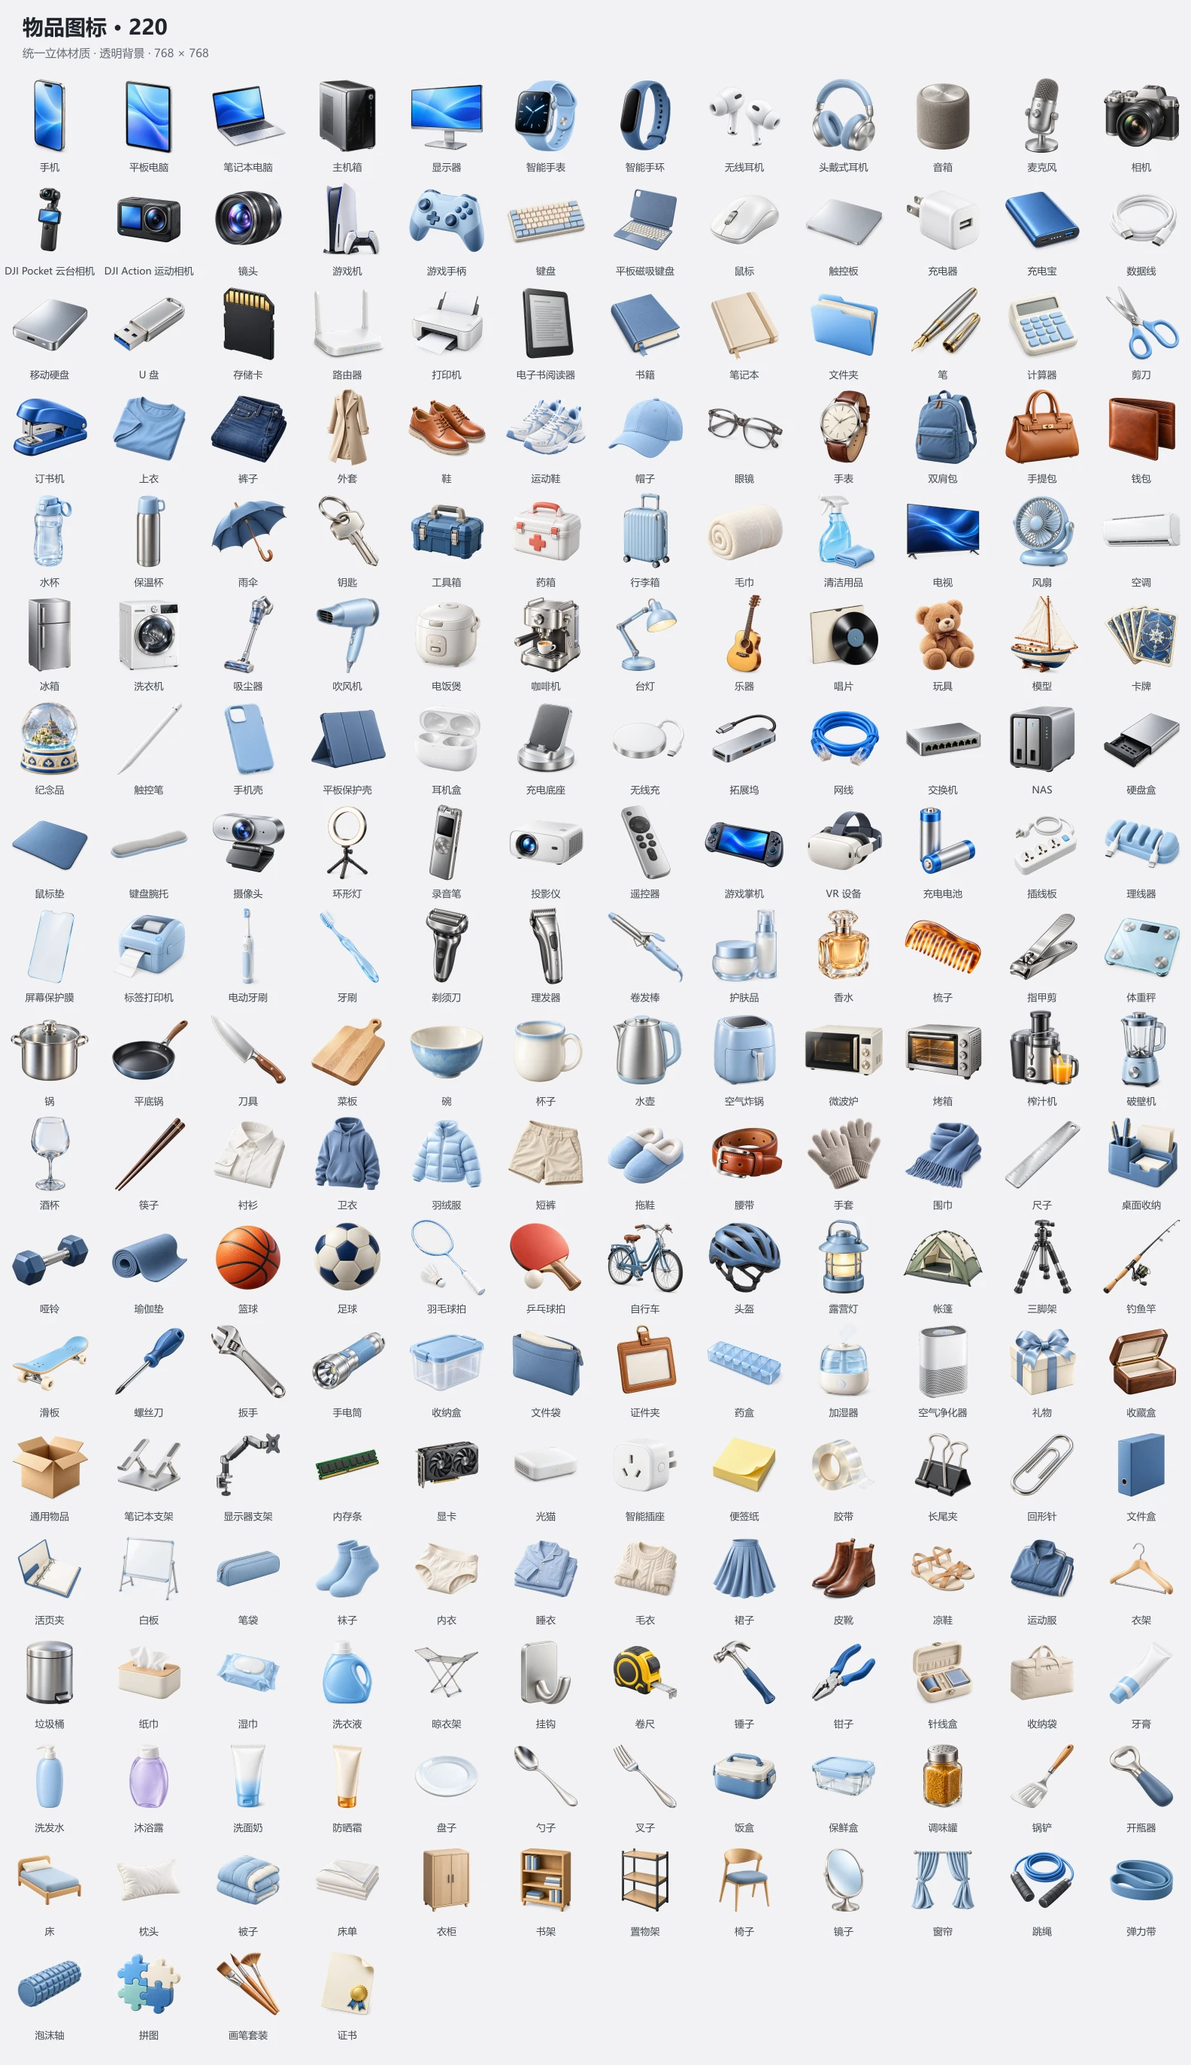
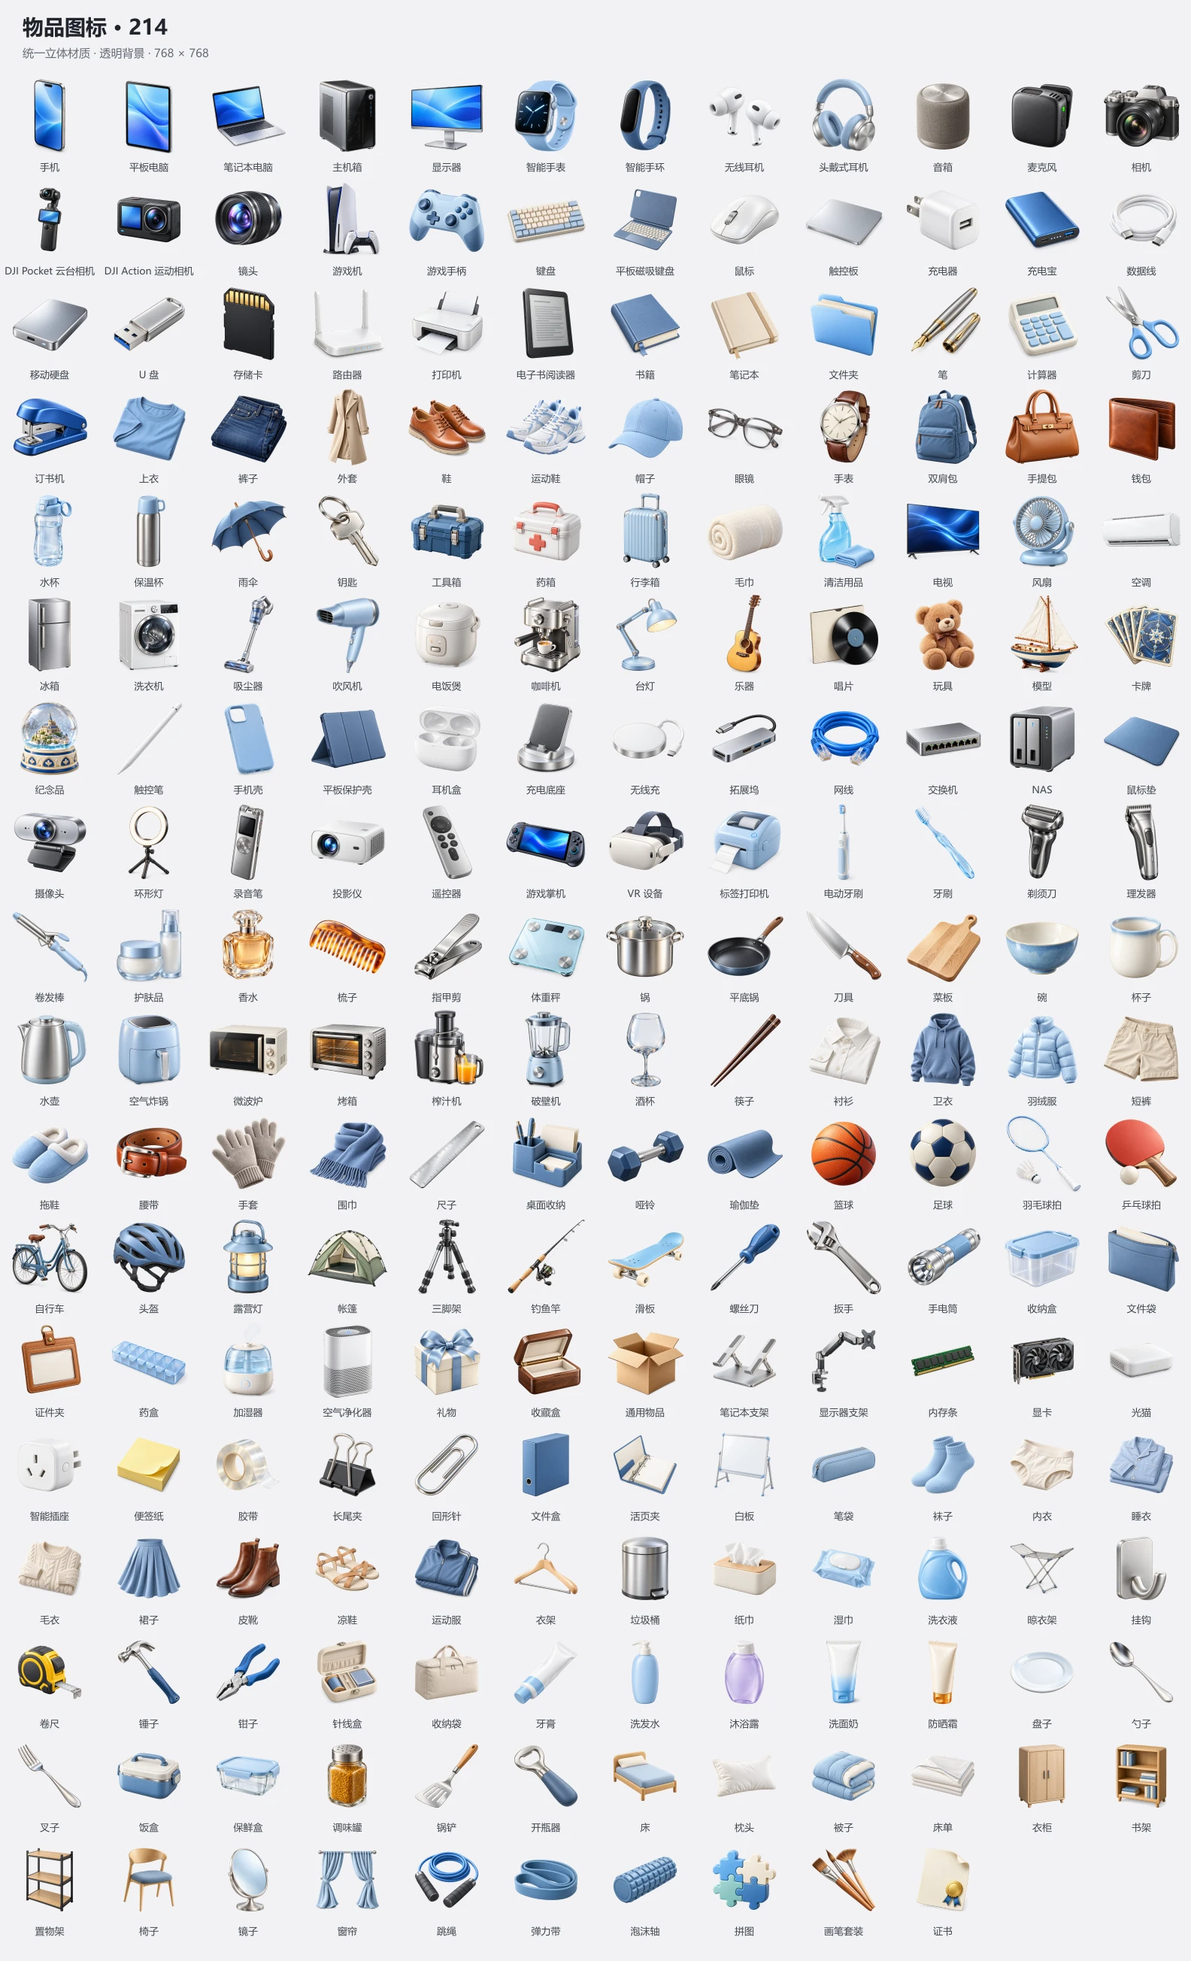
feat: redraw microphone as Mic Mini and retire unused accessories

diff --git a/src/data/icons.test.ts b/src/data/icons.test.ts
@@ -25,8 +25,8 @@ const webpBasenames = new Set(
 )
 
 describe('PRESET_ICONS 元数据', () => {
-  it('图标库包含 220 个独立物品', () => {
-    expect(PRESET_ICONS.length).toBe(220)
+  it('图标库包含 214 个独立物品', () => {
+    expect(PRESET_ICONS.length).toBe(214)
   })
 
   it('key 唯一，且 path 与 key 一一对应', () => {
@@ -140,7 +140,6 @@ describe('图标检索', () => {
     expect(searchIcons('空气炸锅').map((i) => i.key)).toContain('airfryer')
     expect(searchIcons('哑铃').map((i) => i.key)).toContain('dumbbell')
     expect(searchIcons('帐篷').map((i) => i.key)).toContain('tent')
-    expect(searchIcons('插线板').map((i) => i.key)).toContain('powerstrip')
     expect(searchIcons('螺丝刀').map((i) => i.key)).toContain('screwdriver')
   })
 
@@ -164,12 +163,12 @@ describe('图标检索', () => {
     for (const query of ['拓展坞', '扩展坞', 'USB 集线器', 'HDMI 转接器', 'HDMI', '读卡器', 'Docking Station', 'USB-C Hub']) {
       expect(searchIcons(query)[0]?.key, query).toBe('dockingstation')
     }
-    for (const key of ['usb', 'dock', 'hdddock']) {
+    for (const key of ['usb', 'dock']) {
       expect(presetIconOfAssetId(`preset-${key}`)).toBeDefined()
     }
   })
 
-  it('Pocket 云台相机与 Action 运动相机可分别检索，大疆可找到两者', () => {
+  it('Pocket 云台相机与 Action 运动相机可分别检索，大疆可找到相关设备', () => {
     for (const [key, queries] of [
       ['djipocket', ['Pocket', 'DJI Pocket', 'Osmo Pocket', '大疆Pocket', '云台相机', '口袋相机']],
       ['djiaction', ['Action', 'DJI Action', 'Osmo Action', '大疆Action', '运动相机', '运动摄像机']],
@@ -177,10 +176,27 @@ describe('图标检索', () => {
       expect(presetIconOfAssetId(`preset-${key}`)?.category).toBe('digital')
       for (const query of queries) expect(searchIcons(query)[0]?.key, query).toBe(key)
     }
-    expect(searchIcons('大疆').map((i) => i.key)).toEqual(['djipocket', 'djiaction'])
-    expect(searchIcons('DJI').map((i) => i.key)).toEqual(['djipocket', 'djiaction'])
+    expect(searchIcons('大疆').map((i) => i.key)).toEqual(['djipocket', 'djiaction', 'microphone'])
+    expect(searchIcons('DJI').map((i) => i.key)).toEqual(['djipocket', 'djiaction', 'microphone'])
     expect(getIconPath('djipocket')).not.toBe(getIconPath('djiaction'))
     expect(searchIcons('相机')[0]?.key).toBe('camera')
+  })
+
+  it('DJI Mic Mini 和领夹/无线麦别名复用稳定的麦克风图标', () => {
+    expect(presetIconOfAssetId('preset-microphone')?.path).toBe('/icons/items/microphone.webp')
+    for (const query of ['DJI Mic Mini', 'Mic Mini', '大疆 Mic Mini', '领夹麦', '无线麦克风', '话筒']) {
+      expect(searchIcons(query)[0]?.key, query).toBe('microphone')
+    }
+  })
+
+  it('六种不记录的数码附件不再出现在图标库或搜索中', () => {
+    for (const [key, label] of [
+      ['screenprotector', '屏幕保护膜'], ['battery', '充电电池'], ['hdddock', '硬盘盒'],
+      ['cableorganizer', '理线器'], ['powerstrip', '插线板'], ['wristrest', '键盘腕托'],
+    ]) {
+      expect(presetIconOfAssetId(`preset-${key}`), label).toBeUndefined()
+      expect(searchIcons(label), label).toEqual([])
+    }
   })
 
   it('「电脑」是宽泛词，应同时覆盖多类设备', () => {
@@ -206,7 +222,7 @@ describe('图标检索', () => {
   })
 
   it('常见简称、英文及品牌名优先返回相关设备', () => {
-    expect(searchIcons('插排')[0].key).toBe('powerstrip')
+    expect(searchIcons('Mic Mini')[0].key).toBe('microphone')
     expect(searchIcons('iPad')[0].key).toBe('tablet')
     expect(searchIcons('laptop')[0].key).toBe('laptop')
     expect(searchIcons('  IPAD  ')).toEqual(searchIcons('ipad'))

diff --git a/src/data/icons.ts b/src/data/icons.ts
@@ -67,7 +67,7 @@ export const PRESET_ICONS: PresetIcon[] = [
   icon('earbuds', '无线耳机', 'digital', ['耳机', 'AirPods', '蓝牙耳机', '入耳', '真无线', 'Earbuds']),
   icon('headphones', '头戴式耳机', 'digital', ['耳机', '头戴', '耳罩', '降噪耳机', 'Headphones']),
   icon('speaker', '音箱', 'digital', ['音响', '蓝牙音箱', '喇叭', '低音炮', 'Speaker']),
-  icon('microphone', '麦克风', 'digital', ['话筒', '麦', '录音', '麦克风', 'Mic']),
+  icon('microphone', '麦克风', 'digital', ['话筒', '麦', '录音', '麦克风', 'Mic', 'DJI Mic Mini', 'Mic Mini', '大疆麦克风', '大疆 Mic Mini', '领夹麦', '领夹麦克风', '无线麦', '无线麦克风', 'Lavalier', 'Wireless Microphone']),
   icon('camera', '相机', 'digital', ['照相机', '单反', '微单', '相机', 'Camera']),
   icon('djipocket', 'DJI Pocket 云台相机', 'digital', ['Pocket', 'DJI Pocket', 'Osmo Pocket', 'DJI Osmo Pocket', '大疆', '大疆 Pocket', '大疆Pocket', '口袋相机', '云台相机', '手持云台相机', '手持相机', 'Vlog 相机', 'Gimbal Camera', 'Pocket Camera']),
   icon('djiaction', 'DJI Action 运动相机', 'digital', ['Action', 'DJI Action', 'Osmo Action', 'DJI Osmo Action', '大疆', '大疆 Action', '大疆Action', '运动相机', '运动摄像机', '户外相机', '防水相机', 'Action Camera']),
@@ -154,9 +154,7 @@ export const PRESET_ICONS: PresetIcon[] = [
   icon('netcable', '网线', 'digital', ['网线', '六类网线', '网络线', 'Ethernet', '宽带线']),
   icon('netswitch', '交换机', 'digital', ['交换机', '网络交换机', 'Switch', '路由交换']),
   icon('nas', 'NAS', 'digital', ['NAS', '网络存储', '私有云', '存储服务器', '硬盘阵列']),
-  icon('hdddock', '硬盘盒', 'digital', ['硬盘盒', '移动硬盘盒', '硬盘底座', '硬盘托架']),
   icon('mousepad', '鼠标垫', 'digital', ['鼠标垫', '桌垫', '垫子', 'Mouse Pad']),
-  icon('wristrest', '键盘腕托', 'digital', ['腕托', '手托', '键盘手托', '防腕托']),
   icon('webcam', '摄像头', 'digital', ['摄像头', '网络摄像头', '电脑摄像头', 'Webcam', '会议摄像头']),
   icon('lightring', '环形灯', 'digital', ['环形灯', '直播灯', '补光灯', '摄影灯', 'Ring Light']),
   icon('recorder', '录音笔', 'digital', ['录音笔', '录音设备', '拾音器', '录音', 'Recorder']),
@@ -164,10 +162,6 @@ export const PRESET_ICONS: PresetIcon[] = [
   icon('remote', '遥控器', 'digital', ['遥控器', '遥控', '电视遥控', 'Remote']),
   icon('handheld', '游戏掌机', 'digital', ['掌机', '游戏掌机', 'Switch', '便携游戏机']),
   icon('vrmask', 'VR 设备', 'digital', ['VR', 'VR 头显', 'VR 眼镜', '沉浸设备', '头显']),
-  icon('battery', '充电电池', 'digital', ['电池', '充电电池', '五号电池', '电池组', 'Battery']),
-  icon('powerstrip', '插线板', 'digital', ['插线板', '排插', '插排', '接线板', '电源排插']),
-  icon('cableorganizer', '理线器', 'digital', ['理线器', '理线夹', '绕线器', '线缆管理', '魔术贴']),
-  icon('screenprotector', '屏幕保护膜', 'digital', ['保护膜', '钢化膜', '屏幕膜', '贴膜']),
   icon('labelprinter', '标签打印机', 'digital', ['标签机', '标签打印机', '打印标签', 'Label Printer']),
 
   // ---------------------------------------------------- Phase 2G 新增：个人护理

diff --git a/src/data/categories.ts b/src/data/categories.ts
@@ -23,11 +23,11 @@ export interface DefaultCategoryRoot {
 export const DEFAULT_CATEGORY_TREE: DefaultCategoryRoot[] = [
   { key: "digital", name: "数码与电子", iconKey: "laptop", legacyName: "数码与电子", legacyIconKey: "laptop", children: [
     { name: "电脑设备", iconKeys: ["laptop","desktop","monitor","ram","graphicscard","laptopstand","monitorarm"], legacyName: "电脑设备" },
-    { name: "手机与平板", iconKeys: ["phone","tablet","stylus","phonecase","tabletcase","screenprotector"], legacyName: "手机与平板" },
+    { name: "手机与平板", iconKeys: ["phone","tablet","stylus","phonecase","tabletcase"], legacyName: "手机与平板" },
     { name: "音频设备", iconKeys: ["earbuds","headphones","speaker","microphone","earbudcase","recorder"], legacyName: "音频设备" },
-    { name: "存储设备", iconKeys: ["hdd","usb","sdcard","nas","hdddock"], legacyName: "存储设备" },
-    { name: "配件与线材", iconKeys: ["charger","powerbank","cable","dock","wirelesscharger","dockingstation","battery","powerstrip","cableorganizer"], legacyName: "配件与线材" },
-    { name: "键鼠与输入设备", iconKeys: ["keyboard","tabletkeyboard","mouse","trackpad","mousepad","wristrest"] },
+    { name: "存储设备", iconKeys: ["hdd","usb","sdcard","nas"], legacyName: "存储设备" },
+    { name: "配件与线材", iconKeys: ["charger","powerbank","cable","dock","wirelesscharger","dockingstation"], legacyName: "配件与线材" },
+    { name: "键鼠与输入设备", iconKeys: ["keyboard","tabletkeyboard","mouse","trackpad","mousepad"] },
     { name: "摄影摄像", iconKeys: ["camera","djipocket","djiaction","lens","webcam","lightring","tripod"] },
     { name: "游戏设备", iconKeys: ["gameconsole","gamepad","handheld","vrmask"] },
     { name: "网络与智能设备", iconKeys: ["router","netcable","netswitch","opticalmodem","smartplug"] },

diff --git a/assets/item-icons/README.md b/assets/item-icons/README.md
@@ -1,12 +1,12 @@
 # Item icon artwork
 
-The library contains 220 keys in `src/data/icons.ts`. All nine category IDs are unchanged. The unused USB hub, HDMI adapter and card reader options have been consolidated into one docking station; all other `preset-<key>` IDs are preserved. The suggested miscellaneous icon duplicates the existing generic icon and was omitted.
+The library contains 214 keys in `src/data/icons.ts`. All nine category IDs are unchanged. The unused USB hub, HDMI adapter and card reader options have been consolidated into one docking station; retained `preset-<key>` IDs are preserved. Six unused digital accessories have also been retired at the user's request. The suggested miscellaneous icon duplicates the existing generic icon and was omitted.
 
 The artwork uses the Codex built-in ImageGen tool. The original request named `gpt-image-2.5-sunburst`; the user then clarified that they wanted the built-in image generation tool, not a separate API call. That tool exposes neither a model selector nor an actual model ID. The new records therefore use `actualModelId: null`; these assets must not be described as verified GPT Image 2.5 output. No separately billed API calls were made. This batch used 63 generation calls and one edit to remove printed text from the cleanser tube.
 
 `prompts.json` records the shared art direction, exact per-item generation/edit prompts, and final source-image filenames. The style is a refined miniature product illustration with realistic materials, soft studio lighting, a transparent background, and no brand marks or captions.
 
-The app-ready files are transparent 768 × 768 WebP images in `public/icons/items/`, encoded at quality 90 with full alpha quality. New images are trimmed and fitted to a 600px maximum dimension (78.125% of the canvas), with transparent margins. All new outputs passed real-alpha checks and visual review on light/dark backgrounds, including 40px thumbnails. [View all 220 icons](overview.webp) or [compare the first 12 additions with existing icons](comparison-first-12.webp).
+The app-ready files are transparent 768 × 768 WebP images in `public/icons/items/`, encoded at quality 90 with full alpha quality. New images are trimmed and fitted to a 600px maximum dimension (78.125% of the canvas), with transparent margins. All new outputs passed real-alpha checks and visual review on light/dark backgrounds, including 40px thumbnails. [View all 214 icons](overview.webp) or [compare the first 12 additions with existing icons](comparison-first-12.webp).
 
 The `tabletkeyboard` addition uses one built-in ImageGen generation with the same visual style. Its original and generation record are retained under `.tmp/tablet-keyboard/`. The icon shows an empty magnetic mounting panel with a camera opening, a keyboard and a trackpad; search aliases include 磁吸键盘, 平板键盘, 妙控键盘 and Magic Keyboard.
 
@@ -15,5 +15,9 @@ The `dockingstation` icon combines USB-A, HDMI and SD/microSD ports in one enclo
 Original generated PNGs and per-item generation progress are retained locally under `.tmp/icon-redraw/` (original 156) and `.tmp/icon-library-v2/` (new 63). The latter includes `source-images.zip` with accepted originals, the rejected cleanser attempt, sanitized generation records, and checksums; it is a delivery artifact rather than a Git asset. Keep that archive with any long-term project backup. `prompts.json` records source filenames/SHA-256, exact generation/edit prompts, the unexposed model limitation, and final output paths/sizes/SHA-256. The tool also preserves its original outputs in the Codex generated-image directory.
 
 The `djipocket` and `djiaction` additions show a handheld gimbal camera and a compact rugged action camera as two independent digital items. Each used one built-in ImageGen generation. Their originals and records are retained under `.tmp/dji-cameras/`; exact prompts, official DJI shape-reference links and source/output checksums are in `prompts.json`. Names cover the Pocket/Action families without assigning a model generation. Search accepts Pocket, Action, DJI, 大疆, 云台相机 and 运动相机.
+
+The `microphone` artwork now depicts a compact black DJI Mic Mini transmitter, keeping its existing key and label. It used one built-in ImageGen edit, with exact prompt, official shape reference and checksums in `prompts.json`; originals and the previous artwork are retained under `.tmp/mic-mini-cleanup/`. Search includes DJI Mic Mini, Mic Mini, 领夹麦 and 无线麦克风.
+
+The unused `screenprotector`, `battery`, `hdddock`, `cableorganizer`, `powerstrip` and `wristrest` entries were removed from active artwork, taxonomy membership, WebP/SVG files and legacy generator definitions. Their source filenames and output checksums remain in the retirement batch, with the previous commit as the historical reference. Existing business rows and sync queues are not changed by this artwork cleanup.
 
 The remaining SVG artwork stays available for historical stored paths. Retained `preset-<key>` IDs remain stable; artwork changes must never require clearing user data.

diff --git a/README.md b/README.md
@@ -4,12 +4,12 @@
 
 一个本地优先的个人物品管理 PWA，用来记录、整理和追踪自己的物品。
 它支持分类、标签、搜索、购买与持有成本、保修和物品生命周期管理，并可在手机或桌面浏览器中离线使用。
-数据默认保存在当前设备；云端同步是可选能力，不影响本地使用。
+数据默认保存在当前设备；云端同步是可选能力，不影响本地使用。优先记录较昂贵的设备和有意思、值得长期追踪的小物件，图标按实际需要取舍。
 
 ## 主要功能
 
 - 物品记录：名称、图标、备注、分类、标签与搜索。
-- 图标库：220 个透明立体图标，支持九类浏览、中英文及别名搜索、最近使用和单击选择，浅色与深色主题共用。
+- 图标库：214 个透明立体图标，支持九类浏览、中英文及别名搜索、最近使用和单击选择，浅色与深色主题共用。
 - 分类与标签：默认 7 个一级、49 个二级分类，分类页显示真实子分类、图标与物品数量；支持自定义分类和标签。
 - 生命周期：支持「心愿 → 持有 → 已处置」，处置方式包括出售、丢弃和其他。
 - 购买与持有成本：记录购买日期、购买价格、附加花费和购买平台，计算总投入、实际持有成本与日均成本。
@@ -52,9 +52,9 @@
 
 ### 图标库 2.0
 
-九类为数码、办公、服饰、生活、护理、厨房、家居、兴趣和其他，与用户自行管理的物品分类独立。支持「电脑」「笔记本」「iPad」「插排」等叫法；点击即更新表单预览，仍需正常保存物品。最近使用最多保留 8 个。
+九类为数码、办公、服饰、生活、护理、厨房、家居、兴趣和其他，与用户自行管理的物品分类独立。支持「电脑」「笔记本」「iPad」「Mic Mini」等叫法；点击即更新表单预览，仍需正常保存物品。最近使用最多保留 8 个。
 
-[查看 220 个图标总览](assets/item-icons/overview.webp) · [资源规范与生成记录](assets/item-icons/README.md) · [完整截图与更新验收报告](docs/icon-library-v2-audit.md)。图像使用内置生图工具，实际模型 ID 未公开；来源与提示词按实际情况记录。
+[查看 214 个图标总览](assets/item-icons/overview.webp) · [资源规范与生成记录](assets/item-icons/README.md) · [完整截图与更新验收报告](docs/icon-library-v2-audit.md)。图像使用内置生图工具，实际模型 ID 未公开；来源与提示词按实际情况记录。
 
 ## 技术栈
 
@@ -87,7 +87,7 @@ npm run preview
 
 ## 物品分类
 
-默认一级为数码与电子、学习与办公、衣物与穿搭、生活与护理、家居与厨房、兴趣与收藏、其他。220 个图标已逐项对应到这些物品类型；图标浏览器的九种素材分组独立保留。
+默认一级为数码与电子、学习与办公、衣物与穿搭、生活与护理、家居与厨房、兴趣与收藏、其他。214 个图标已逐项对应到这些物品类型；图标浏览器的九种素材分组独立保留。
 
 旧版本启动时增量补齐新增分类，原分类 ID、物品归属、自定义名称与删除记录保留。分类页默认展开二级网格，可折叠，件数包含子分类；直接放在大类中的旧物品会单独提示。完整规则和当前截图见 [分类说明](docs/categories.md)。
 

diff --git a/docs/categories.md b/docs/categories.md
@@ -1,6 +1,6 @@
 # 物品分类
 
-当前默认分类为 **7 个一级、49 个二级**，涵盖现有 220 个图标。一级保持宽泛；二级用于具体归档。用户可在“管理”中继续调整，默认数量不是用户自定义数量的硬限制。
+当前默认分类为 **7 个一级、49 个二级**，涵盖现有 214 个图标。一级保持宽泛；二级用于具体归档。用户可在“管理”中继续调整，默认数量不是用户自定义数量的硬限制。
 
 | 一级分类 | 二级分类 |
 |---|---|

diff --git a/docs/product-goals.md b/docs/product-goals.md
@@ -4,6 +4,10 @@
 
 一个 **local-first、私人、长期自用、低维护成本、移动端优先**的数字物品库。
 
+## 记录范围
+
+优先记录较昂贵的设备，以及有意思、有纪念意义或值得长期追踪的小物件。不要求把廉价附件和日常消耗品逐项建档，图标按实际使用需求取舍。
+
 ## 核心功能
 
 物品 · 分类树 · 标签 · 搜索 · 统一图标 · 购买信息 · 总投入 · 日均使用成本 · 私人跨设备同步（可选）· Backup · PWA
